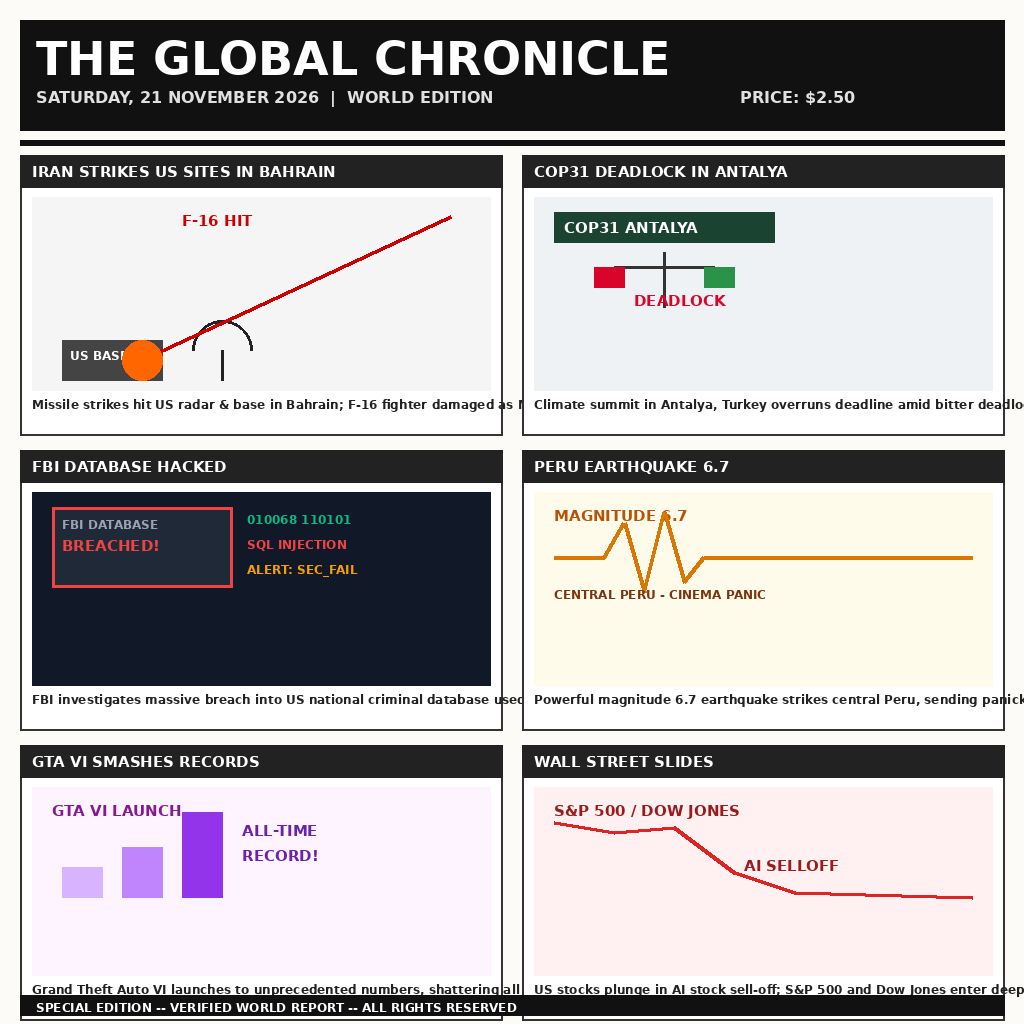
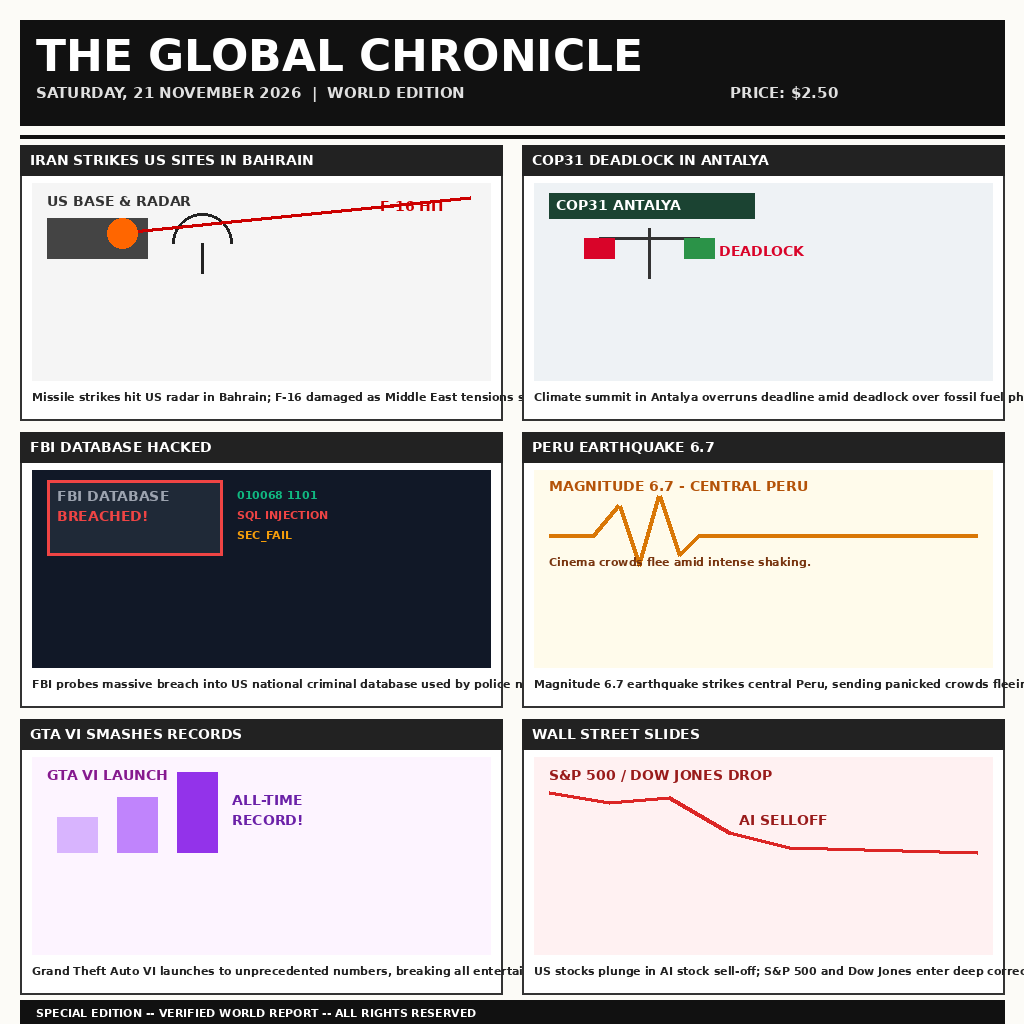
Improve entry.png layout, text positioning, and fix clipping

diff --git a/draw.py b/draw.py
@@ -11,64 +11,57 @@ def draw_newspaper():
     font_path = "/usr/share/fonts/truetype/dejavu/DejaVuSans-Bold.ttf"
     font_regular_path = "/usr/share/fonts/truetype/dejavu/DejaVuSans.ttf"
     
-    font_masthead = ImageFont.truetype(font_path, 46)
-    font_subhead = ImageFont.truetype(font_path, 16)
-    font_panel_title = ImageFont.truetype(font_path, 15)
-    font_panel_text = ImageFont.truetype(font_path, 12)
+    font_masthead = ImageFont.truetype(font_path, 44)
+    font_subhead = ImageFont.truetype(font_path, 15)
+    font_panel_title = ImageFont.truetype(font_path, 14)
+    font_panel_text = ImageFont.truetype(font_path, 11)
 
     # Header section
-    draw.rectangle([20, 20, 1004, 130], fill="#111111")
-    draw.text((36, 32), "THE GLOBAL CHRONICLE", fill="#ffffff", font=font_masthead)
-    draw.text((36, 88), "SATURDAY, 21 NOVEMBER 2026  |  WORLD EDITION", fill="#e0e0e0", font=font_subhead)
-    draw.text((740, 88), "PRICE: $2.50", fill="#e0e0e0", font=font_subhead)
+    draw.rectangle([20, 20, 1004, 125], fill="#111111")
+    draw.text((36, 30), "THE GLOBAL CHRONICLE", fill="#ffffff", font=font_masthead)
+    draw.text((36, 84), "SATURDAY, 21 NOVEMBER 2026  |  WORLD EDITION", fill="#e0e0e0", font=font_subhead)
+    draw.text((730, 84), "PRICE: $2.50", fill="#e0e0e0", font=font_subhead)
 
     # Thin separator line
-    draw.rectangle([20, 140, 1004, 145], fill="#111111")
+    draw.rectangle([20, 135, 1004, 138], fill="#111111")
 
     # Panels configuration (3 rows, 2 columns)
-    # Grid: 
-    # Left col: x = 20 to 502
-    # Right col: x = 522 to 1004
-    # Rows: 
-    # R1: y = 155 to 435
-    # R2: y = 450 to 730
-    # R3: y = 745 to 1025 (adjusted slightly to fit 1024)
-
+    # Box height: ~275 each. Total height from 145 to 995.
     panels = [
         {
-            "box": (20, 155, 502, 435),
+            "box": (20, 145, 502, 420),
             "title": "IRAN STRIKES US SITES IN BAHRAIN",
-            "desc": "Missile strikes hit US radar & base in Bahrain; F-16 fighter damaged as Middle East tensions surge.",
+            "desc": "Missile strikes hit US radar in Bahrain; F-16 damaged as Middle East tensions surge.",
             "type": "iran"
         },
         {
-            "box": (522, 155, 1004, 435),
+            "box": (522, 145, 1004, 420),
             "title": "COP31 DEADLOCK IN ANTALYA",
-            "desc": "Climate summit in Antalya, Turkey overruns deadline amid bitter deadlock over fossil fuel phaseout.",
+            "desc": "Climate summit in Antalya overruns deadline amid deadlock over fossil fuel phaseout.",
             "type": "cop31"
         },
         {
-            "box": (20, 450, 502, 730),
+            "box": (20, 432, 502, 707),
             "title": "FBI DATABASE HACKED",
-            "desc": "FBI investigates massive breach into US national criminal database used by police nationwide.",
+            "desc": "FBI probes massive breach into US national criminal database used by police nationwide.",
             "type": "fbi"
         },
         {
-            "box": (522, 450, 1004, 730),
+            "box": (522, 432, 1004, 707),
             "title": "PERU EARTHQUAKE 6.7",
-            "desc": "Powerful magnitude 6.7 earthquake strikes central Peru, sending panicked crowds fleeing cinemas.",
+            "desc": "Magnitude 6.7 earthquake strikes central Peru, sending panicked crowds fleeing cinemas.",
             "type": "peru"
         },
         {
-            "box": (20, 745, 502, 1020),
+            "box": (20, 719, 502, 994),
             "title": "GTA VI SMASHES RECORDS",
-            "desc": "Grand Theft Auto VI launches to unprecedented numbers, shattering all historical entertainment records.",
+            "desc": "Grand Theft Auto VI launches to unprecedented numbers, breaking all entertainment records.",
             "type": "gta"
         },
         {
-            "box": (522, 745, 1004, 1020),
+            "box": (522, 719, 1004, 994),
             "title": "WALL STREET SLIDES",
-            "desc": "US stocks plunge in AI stock sell-off; S&P 500 and Dow Jones enter deep market correction.",
+            "desc": "US stocks plunge in AI stock sell-off; S&P 500 and Dow Jones enter deep correction.",
             "type": "wallstreet"
         }
     ]
@@ -78,107 +71,101 @@ def draw_newspaper():
         # Panel container box
         draw.rectangle([bx1, by1, bx2, by2], outline="#333333", width=2, fill="#ffffff")
         # Panel title banner
-        draw.rectangle([bx1, by1, bx2, by1 + 32], fill="#222222")
-        draw.text((bx1 + 12, by1 + 8), p["title"], fill="#ffffff", font=font_panel_title)
+        draw.rectangle([bx1, by1, bx2, by1 + 30], fill="#222222")
+        draw.text((bx1 + 10, by1 + 7), p["title"], fill="#ffffff", font=font_panel_title)
 
         # Drawing area inside panel
-        dw1, dy1, dw2, dy2 = bx1 + 12, by1 + 42, bx2 - 12, by2 - 45
+        dw1, dy1, dw2, dy2 = bx1 + 12, by1 + 38, bx2 - 12, by2 - 40
         
         # Draw custom illustrations based on panel type
         if p["type"] == "iran":
-            # Missile & Base graphic
             draw.rectangle([dw1, dy1, dw2, dy2], fill="#f5f5f5")
-            # Base icon
-            draw.rectangle([dw1 + 30, dy2 - 50, dw1 + 130, dy2 - 10], fill="#444")
-            draw.text((dw1 + 38, dy2 - 42), "US BASE", fill="#fff", font=font_panel_text)
-            # Radar dish
-            draw.arc([dw1 + 160, dy2 - 70, dw1 + 220, dy2 - 10], start=180, end=360, fill="#222", width=3)
-            draw.line([dw1 + 190, dy2 - 40, dw1 + 190, dy2 - 10], fill="#222", width=3)
-            # Missile arc
-            draw.line([dw2 - 40, dy1 + 20, dw1 + 110, dy2 - 30], fill="#cc0000", width=4)
-            # Explosion star
-            draw.ellipse([dw1 + 90, dy2 - 50, dw1 + 130, dy2 - 10], fill="#ff6600")
-            draw.text((dw1 + 150, dy1 + 15), "F-16 HIT", fill="#cc0000", font=font_panel_title)
+            # US Base label placed cleanly at top left
+            draw.text((dw1 + 15, dy1 + 10), "US BASE & RADAR", fill="#333", font=font_panel_title)
+            # Base building box
+            draw.rectangle([dw1 + 15, dy1 + 35, dw1 + 115, dy1 + 75], fill="#444")
+            # Radar dish clear of text
+            draw.arc([dw1 + 140, dy1 + 30, dw1 + 200, dy1 + 90], start=180, end=360, fill="#222", width=3)
+            draw.line([dw1 + 170, dy1 + 60, dw1 + 170, dy1 + 90], fill="#222", width=3)
+            # Missile arc & explosion
+            draw.line([dw2 - 20, dy1 + 15, dw1 + 90, dy1 + 50], fill="#cc0000", width=4)
+            draw.ellipse([dw1 + 75, dy1 + 35, dw1 + 105, dy1 + 65], fill="#ff6600")
+            draw.text((dw2 - 110, dy1 + 15), "F-16 HIT", fill="#cc0000", font=font_panel_title)
 
         elif p["type"] == "cop31":
-            # Climate summit deadlock
             draw.rectangle([dw1, dy1, dw2, dy2], fill="#eef2f5")
-            draw.rectangle([dw1 + 20, dy1 + 15, dw1 + 240, dy1 + 45], fill="#1b4332")
-            draw.text((dw1 + 30, dy1 + 22), "COP31 ANTALYA", fill="#ffffff", font=font_panel_title)
+            draw.rectangle([dw1 + 15, dy1 + 10, dw1 + 220, dy1 + 35], fill="#1b4332")
+            draw.text((dw1 + 22, dy1 + 14), "COP31 ANTALYA", fill="#ffffff", font=font_panel_title)
             # Scales of deadlock
-            draw.line([dw1 + 130, dy1 + 55, dw1 + 130, dy1 + 110], fill="#333", width=3)
-            draw.line([dw1 + 80, dy1 + 70, dw1 + 180, dy1 + 70], fill="#333", width=3)
-            draw.rectangle([dw1 + 60, dy1 + 70, dw1 + 90, dy1 + 90], fill="#d90429")
-            draw.rectangle([dw1 + 170, dy1 + 70, dw1 + 200, dy1 + 90], fill="#2b9348")
-            draw.text((dw1 + 100, dy1 + 95), "DEADLOCK", fill="#d90429", font=font_panel_title)
+            draw.line([dw1 + 115, dy1 + 45, dw1 + 115, dy1 + 95], fill="#333", width=3)
+            draw.line([dw1 + 65, dy1 + 55, dw1 + 165, dy1 + 55], fill="#333", width=3)
+            draw.rectangle([dw1 + 50, dy1 + 55, dw1 + 80, dy1 + 75], fill="#d90429")
+            draw.rectangle([dw1 + 150, dy1 + 55, dw1 + 180, dy1 + 75], fill="#2b9348")
+            draw.text((dw1 + 185, dy1 + 60), "DEADLOCK", fill="#d90429", font=font_panel_title)
 
         elif p["type"] == "fbi":
-            # FBI database hacked
             draw.rectangle([dw1, dy1, dw2, dy2], fill="#111827")
-            draw.rectangle([dw1 + 20, dy1 + 15, dw1 + 200, dy1 + 95], outline="#ef4444", width=3, fill="#1f2937")
-            draw.text((dw1 + 30, dy1 + 25), "FBI DATABASE", fill="#9ca3af", font=font_panel_text)
-            draw.text((dw1 + 30, dy1 + 45), "BREACHED!", fill="#ef4444", font=font_panel_title)
+            draw.rectangle([dw1 + 15, dy1 + 10, dw1 + 190, dy1 + 85], outline="#ef4444", width=3, fill="#1f2937")
+            draw.text((dw1 + 25, dy1 + 18), "FBI DATABASE", fill="#9ca3af", font=font_panel_title)
+            draw.text((dw1 + 25, dy1 + 38), "BREACHED!", fill="#ef4444", font=font_panel_title)
             # Binary stream
-            draw.text((dw1 + 215, dy1 + 20), "010068 110101", fill="#10b981", font=font_panel_text)
-            draw.text((dw1 + 215, dy1 + 45), "SQL INJECTION", fill="#ef4444", font=font_panel_text)
-            draw.text((dw1 + 215, dy1 + 70), "ALERT: SEC_FAIL", fill="#f59e0b", font=font_panel_text)
+            draw.text((dw1 + 205, dy1 + 18), "010068 1101", fill="#10b981", font=font_panel_text)
+            draw.text((dw1 + 205, dy1 + 38), "SQL INJECTION", fill="#ef4444", font=font_panel_text)
+            draw.text((dw1 + 205, dy1 + 58), "SEC_FAIL", fill="#f59e0b", font=font_panel_text)
 
         elif p["type"] == "peru":
-            # Peru earthquake 6.7
             draw.rectangle([dw1, dy1, dw2, dy2], fill="#fffbeb")
-            draw.text((dw1 + 20, dy1 + 15), "MAGNITUDE 6.7", fill="#b45309", font=font_panel_title)
-            # Seismograph lines
+            # Text placed safely above waveform
+            draw.text((dw1 + 15, dy1 + 8), "MAGNITUDE 6.7 - CENTRAL PERU", fill="#b45309", font=font_panel_title)
+            # Seismograph lines starting below text
             points = [
-                (dw1 + 20, dy1 + 65),
-                (dw1 + 70, dy1 + 65),
-                (dw1 + 90, dy1 + 30),
-                (dw1 + 110, dy1 + 100),
-                (dw1 + 130, dy1 + 20),
-                (dw1 + 150, dy1 + 90),
-                (dw1 + 170, dy1 + 65),
-                (dw2 - 20, dy1 + 65)
+                (dw1 + 15, dy1 + 65),
+                (dw1 + 60, dy1 + 65),
+                (dw1 + 85, dy1 + 35),
+                (dw1 + 105, dy1 + 95),
+                (dw1 + 125, dy1 + 25),
+                (dw1 + 145, dy1 + 85),
+                (dw1 + 165, dy1 + 65),
+                (dw2 - 15, dy1 + 65)
             ]
             draw.line(points, fill="#d97706", width=4)
-            draw.text((dw1 + 20, dy1 + 95), "CENTRAL PERU - CINEMA PANIC", fill="#78350f", font=font_panel_text)
+            draw.text((dw1 + 15, dy1 + 85), "Cinema crowds flee amid intense shaking.", fill="#78350f", font=font_panel_text)
 
         elif p["type"] == "gta":
-            # GTA VI records
             draw.rectangle([dw1, dy1, dw2, dy2], fill="#fdf4ff")
-            draw.text((dw1 + 20, dy1 + 15), "GTA VI LAUNCH", fill="#86198f", font=font_panel_title)
+            draw.text((dw1 + 15, dy1 + 10), "GTA VI LAUNCH", fill="#86198f", font=font_panel_title)
             # Bar chart soaring
-            draw.rectangle([dw1 + 30, dy1 + 80, dw1 + 70, dy1 + 110], fill="#d8b4fe")
-            draw.rectangle([dw1 + 90, dy1 + 60, dw1 + 130, dy1 + 110], fill="#c084fc")
-            draw.rectangle([dw1 + 150, dy1 + 25, dw1 + 190, dy1 + 110], fill="#9333ea")
-            draw.text((dw1 + 210, dy1 + 35), "ALL-TIME", fill="#6b21a8", font=font_panel_title)
-            draw.text((dw1 + 210, dy1 + 60), "RECORD!", fill="#6b21a8", font=font_panel_title)
+            draw.rectangle([dw1 + 25, dy1 + 60, dw1 + 65, dy1 + 95], fill="#d8b4fe")
+            draw.rectangle([dw1 + 85, dy1 + 40, dw1 + 125, dy1 + 95], fill="#c084fc")
+            draw.rectangle([dw1 + 145, dy1 + 15, dw1 + 185, dy1 + 95], fill="#9333ea")
+            draw.text((dw1 + 200, dy1 + 35), "ALL-TIME", fill="#6b21a8", font=font_panel_title)
+            draw.text((dw1 + 200, dy1 + 55), "RECORD!", fill="#6b21a8", font=font_panel_title)
 
         elif p["type"] == "wallstreet":
-            # Wall street slides
             draw.rectangle([dw1, dy1, dw2, dy2], fill="#fff1f2")
-            draw.text((dw1 + 20, dy1 + 15), "S&P 500 / DOW JONES", fill="#991b1b", font=font_panel_title)
+            draw.text((dw1 + 15, dy1 + 10), "S&P 500 / DOW JONES DROP", fill="#991b1b", font=font_panel_title)
             # Stock drop line
             chart_pts = [
-                (dw1 + 20, dy1 + 35),
-                (dw1 + 80, dy1 + 45),
-                (dw1 + 140, dy1 + 40),
-                (dw1 + 200, dy1 + 85),
-                (dw1 + 260, dy1 + 105),
-                (dw2 - 20, dy1 + 110)
+                (dw1 + 15, dy1 + 35),
+                (dw1 + 75, dy1 + 45),
+                (dw1 + 135, dy1 + 40),
+                (dw1 + 195, dy1 + 75),
+                (dw1 + 255, dy1 + 90),
+                (dw2 - 15, dy1 + 95)
             ]
             draw.line(chart_pts, fill="#dc2626", width=4)
-            draw.text((dw1 + 210, dy1 + 70), "AI SELLOFF", fill="#991b1b", font=font_panel_title)
+            draw.text((dw1 + 205, dy1 + 55), "AI SELLOFF", fill="#991b1b", font=font_panel_title)
 
-        # Draw description text at the bottom of panel
-        # Wrap or draw text
-        draw.text((bx1 + 12, by2 - 38), p["desc"], fill="#222222", font=font_panel_text)
+        # Draw description text cleanly inside bottom of panel
+        draw.text((bx1 + 12, by2 - 30), p["desc"], fill="#222222", font=font_panel_text)
 
-    # Footer note
-    draw.rectangle([20, 995, 1004, 1015], fill="#111111")
-    draw.text((36, 1000), "SPECIAL EDITION -- VERIFIED WORLD REPORT -- ALL RIGHTS RESERVED", fill="#ffffff", font=font_panel_text)
+    # Footer note positioned cleanly inside black bar
+    draw.rectangle([20, 1000, 1004, 1024], fill="#111111")
+    draw.text((36, 1006), "SPECIAL EDITION -- VERIFIED WORLD REPORT -- ALL RIGHTS RESERVED", fill="#ffffff", font=font_panel_text)
 
     # Save
     img.save("entry.png", "PNG")
-    print("entry.png generated successfully.")
+    print("entry.png regenerated successfully with fixes.")
 
 if __name__ == "__main__":
     draw_newspaper()
